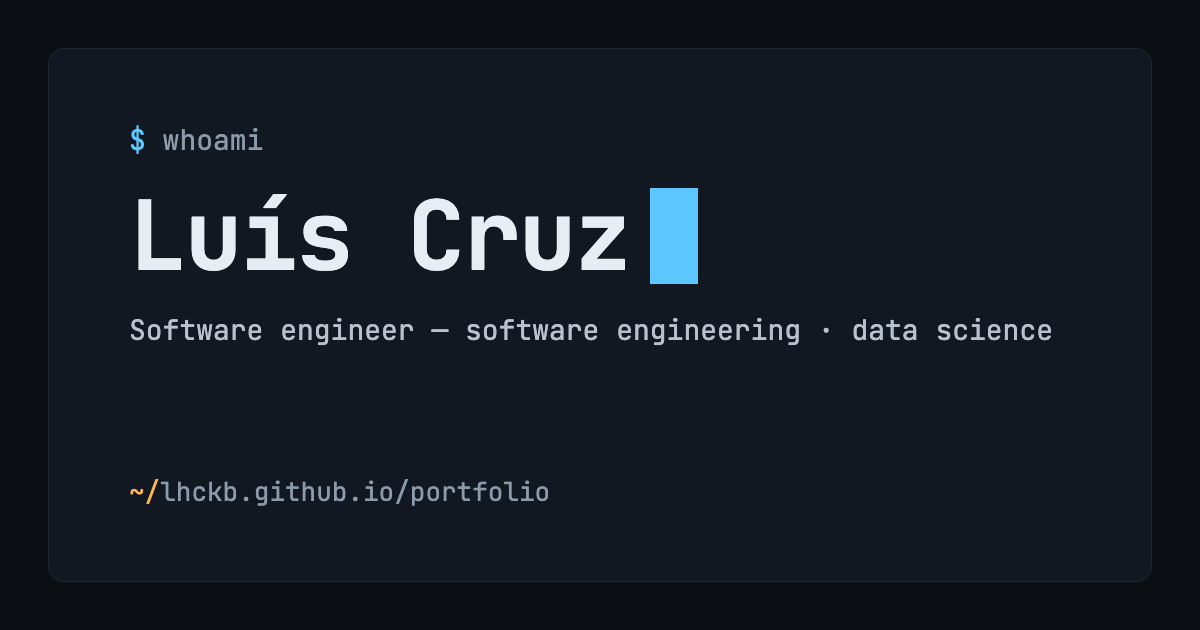
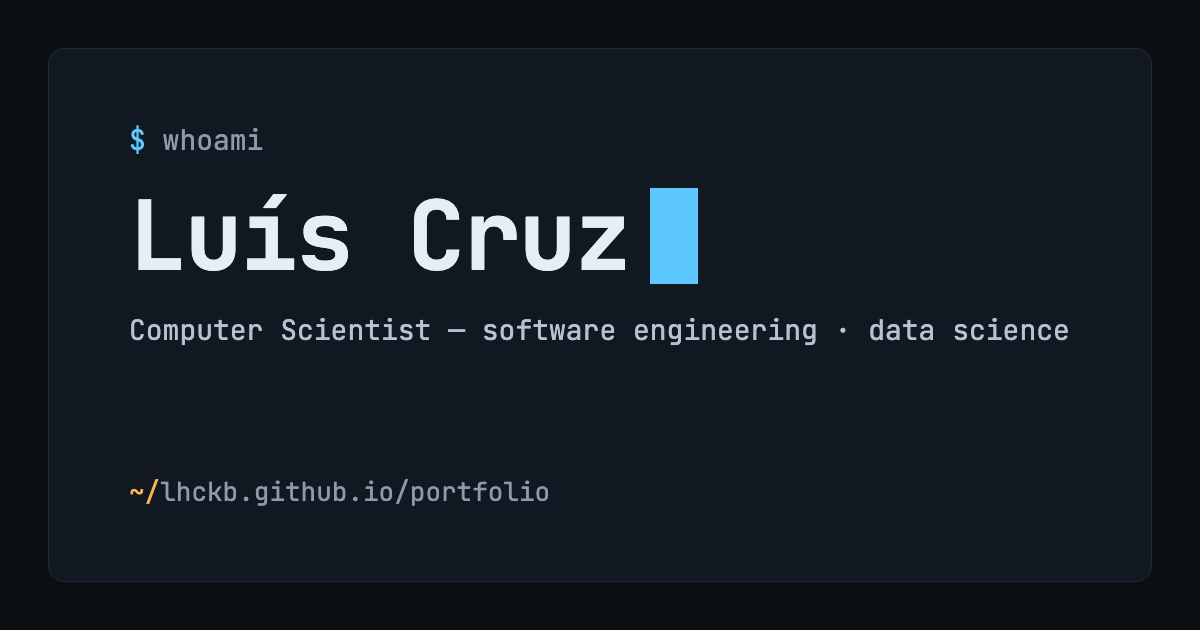
Choose row tags in site config, add LinkedIn to the contact row
Role is now Computer Scientist; og.png regenerated to match.

Changed region(s): [[0.0925, 0.5127, 0.8942, 0.5429]]

diff --git a/src/lib/github.test.ts b/src/lib/github.test.ts
@@ -1,5 +1,5 @@
 import { describe, expect, it, vi } from 'vitest';
-import { buildProjects, classifyRepo, fetchRepos, formatMonth, parseNextLink, toProject } from './github';
+import { applyTag, buildProjects, classifyRepo, fetchRepos, formatMonth, parseNextLink, toProject } from './github';
 import type { GitHubRepo } from './types';
 import fixture from './fixtures/repos.json';
 
@@ -83,11 +83,39 @@ describe('toProject', () => {
   });
 });
 
+describe('applyTag', () => {
+  it('replaces the default tag with the configured one, keeping the section', () => {
+    expect(applyTag({ section: 'data', sub: 'de', tag: 'de' }, 'etl', { etl: 'etl' })).toEqual({
+      section: 'data',
+      sub: 'de',
+      tag: 'etl',
+    });
+    expect(applyTag({ section: 'software' }, 'cli', { cli: 'cli' })).toEqual({ section: 'software', tag: 'cli' });
+  });
+
+  it('keeps the default without an entry, and removes the tag for an empty one', () => {
+    expect(applyTag({ section: 'software', tag: 'astro' }, 'web-app', {})).toEqual({ section: 'software', tag: 'astro' });
+    expect(applyTag({ section: 'software', tag: 'astro' }, 'web-app', { 'web-app': '' })).toEqual({ section: 'software' });
+  });
+});
+
 describe('buildProjects', () => {
   it('splits into sections, newest push first', () => {
-    const { software, data } = buildProjects(repos, topics, () => {});
+    const { software, data } = buildProjects(repos, { topics, tags: {}, warn: () => {} });
     expect(software.map((p) => p.name)).toEqual(['cli-tool', 'web-app', 'forked-lib', 'old-archived']);
     expect(data.map((p) => p.name)).toEqual(['etl-pipeline', 'double-tagged', 'ml-notebook', 'no-description']);
+  });
+
+  it('applies configured tags and warns about tags for repos not on the portfolio', () => {
+    const warn = vi.fn();
+    const tags = { 'cli-tool': 'cli', 'etl-pipeline': 'etl', 'web-app': '', untagged: 'x' };
+    const { software, data } = buildProjects(repos, { topics, tags, warn });
+    const find = (name: string) => [...software, ...data].find((p) => p.name === name)!;
+    expect(find('cli-tool').tag).toBe('cli');
+    expect(find('etl-pipeline')).toMatchObject({ tag: 'etl', sub: 'de' });
+    expect(find('web-app')).not.toHaveProperty('tag');
+    expect(find('ml-notebook').tag).toBe('ds');
+    expect(warn).toHaveBeenCalledWith(expect.stringContaining('untagged'));
   });
 });
 

diff --git a/src/lib/github.ts b/src/lib/github.ts
@@ -4,6 +4,7 @@ import siteConfig from '../../site.config';
 import type { DataSub, GitHubRepo, Project, Section } from './types';
 
 export type Topics = { software: string; dataScience: string; dataEngineering: string };
+export type Tags = Readonly<Partial<Record<string, string>>>;
 export type Warn = (message: string) => void;
 
 export interface Placement {
@@ -108,6 +109,14 @@ export function classifyRepo(
   }
 }
 
+/** Applies the tag set for this repo in the config, if any, over the default one; '' removes it. */
+export function applyTag(placement: Placement, repoName: string, tags: Tags = siteConfig.tags): Placement {
+  const tag = tags[repoName];
+  if (tag === undefined) return placement;
+  const { tag: _default, ...rest } = placement;
+  return tag ? { ...rest, tag } : rest;
+}
+
 export function toProject(repo: GitHubRepo, placement: Placement, warn: Warn = defaultWarn): Project {
   const description = repo.description?.trim() || null;
   if (!description) warn(`${repo.name} has no description.`);
@@ -124,13 +133,26 @@ export function toProject(repo: GitHubRepo, placement: Placement, warn: Warn = d
   };
 }
 
+interface BuildOptions {
+  topics?: Topics;
+  tags?: Tags;
+  warn?: Warn;
+}
+
 /** Classifies repos into the two sections, each sorted newest push first. */
-export function buildProjects(repos: GitHubRepo[], topics: Topics = siteConfig.topics, warn: Warn = defaultWarn): Projects {
+export function buildProjects(
+  repos: GitHubRepo[],
+  { topics = siteConfig.topics, tags = siteConfig.tags, warn = defaultWarn }: BuildOptions = {},
+): Projects {
   const projects: Projects = { software: [], data: [] };
+  const unusedTags = new Set(Object.keys(tags));
   for (const repo of repos) {
     const placement = classifyRepo(repo, topics, warn);
-    if (placement) projects[placement.section].push(toProject(repo, placement, warn));
+    if (!placement) continue;
+    unusedTags.delete(repo.name);
+    projects[placement.section].push(toProject(repo, applyTag(placement, repo.name, tags), warn));
   }
+  for (const name of unusedTags) warn(`A tag is set for ${name}, which isn't on the portfolio.`);
   const newestFirst = (a: Project, b: Project) =>
     b.pushedAt.getTime() - a.pushedAt.getTime() || a.name.localeCompare(b.name);
   projects.software.sort(newestFirst);

diff --git a/scripts/list-repos.ts b/scripts/list-repos.ts
@@ -1,16 +1,18 @@
 // npm run repos: lists every public repo you own and the portfolio section it is in.
-import { classifyRepo, fetchRepos, resolveToken } from '../src/lib/github';
+import { applyTag, classifyRepo, fetchRepos, resolveToken } from '../src/lib/github';
 
 const repos = (await fetchRepos({ token: resolveToken() })).filter((repo) => !repo.private);
 
 const rows = repos.map((repo) => {
   const placement = classifyRepo(repo);
   const section = !placement ? '-' : placement.sub ? `data/${placement.sub}` : 'software';
+  const tag = placement ? (applyTag(placement, repo.name).tag ?? '') : '';
   const notes = [repo.fork && 'fork', repo.archived && 'archived'].filter(Boolean).join(',');
   const description = repo.description ?? '';
   return {
     repo: repo.name,
     section,
+    tag,
     lang: repo.language ?? '',
     pushed: repo.pushed_at.slice(0, 10),
     notes,
@@ -18,7 +20,7 @@ const rows = repos.map((repo) => {
   };
 });
 
-const columns = ['repo', 'section', 'lang', 'pushed', 'notes', 'description'] as const;
+const columns = ['repo', 'section', 'tag', 'lang', 'pushed', 'notes', 'description'] as const;
 const widths = columns.map((col) => Math.max(col.length, ...rows.map((row) => row[col].length)));
 const line = (cells: string[]) => cells.map((cell, i) => cell.padEnd(widths[i]!)).join('  ').trimEnd();
 

diff --git a/site.config.ts b/site.config.ts
@@ -3,7 +3,7 @@ export default {
   githubUsername: 'lhckb',
   name: 'Luís Cruz',
   handle: 'luiscruz', // shown as ~/<handle> in the header
-  role: 'Software engineer',
+  role: 'Computer Scientist',
   disciplines: 'software engineering · data science', // shown after the role
   intro:
     'Software engineer with 5 years of experience solving businesses’ needs with code. Experienced in web, mobile and native software projects, and in machine learning and data engineering.',
@@ -12,6 +12,18 @@ export default {
   focus: 'Building tech solutions so businesses can focus on business.',
   email: 'luis.carv.cruz@gmail.com',
   linkedin: 'https://www.linkedin.com/in/lcruz03',
+  // Badge left of each project name, keyed by repo name. Without an entry, Data
+  // projects show ds/de and Software projects show the repo's first other GitHub
+  // topic (GitHub sorts topics alphabetically). Set '' to show no badge.
+  tags: {
+    Breakpoint: 'ios',
+    'C-projects': 'linux',
+    'ci-cd-terraform': 'devops',
+    'citizen-register-api': 'api',
+    lsh: 'shell',
+    SecondBrainAPI: 'api',
+    'takenote-v3': 'web',
+  },
   topics: {
     software: 'portfolio-software',
     dataScience: 'portfolio-data-science',

diff --git a/README.md b/README.md
@@ -19,6 +19,8 @@ gh workflow run deploy.yml   # or wait for the daily build at 06:00 UTC
 
 The repo's About description, language, homepage (shown as a `demo` link) and last push date are shown. Rows are sorted newest push first.
 
+To choose a row's tag yourself, add the repo to `tags` in [`site.config.ts`](site.config.ts) (`''` hides the tag). `npm run repos` shows the tag each repo gets.
+
 ## Commands
 
 | Command | What it does |
